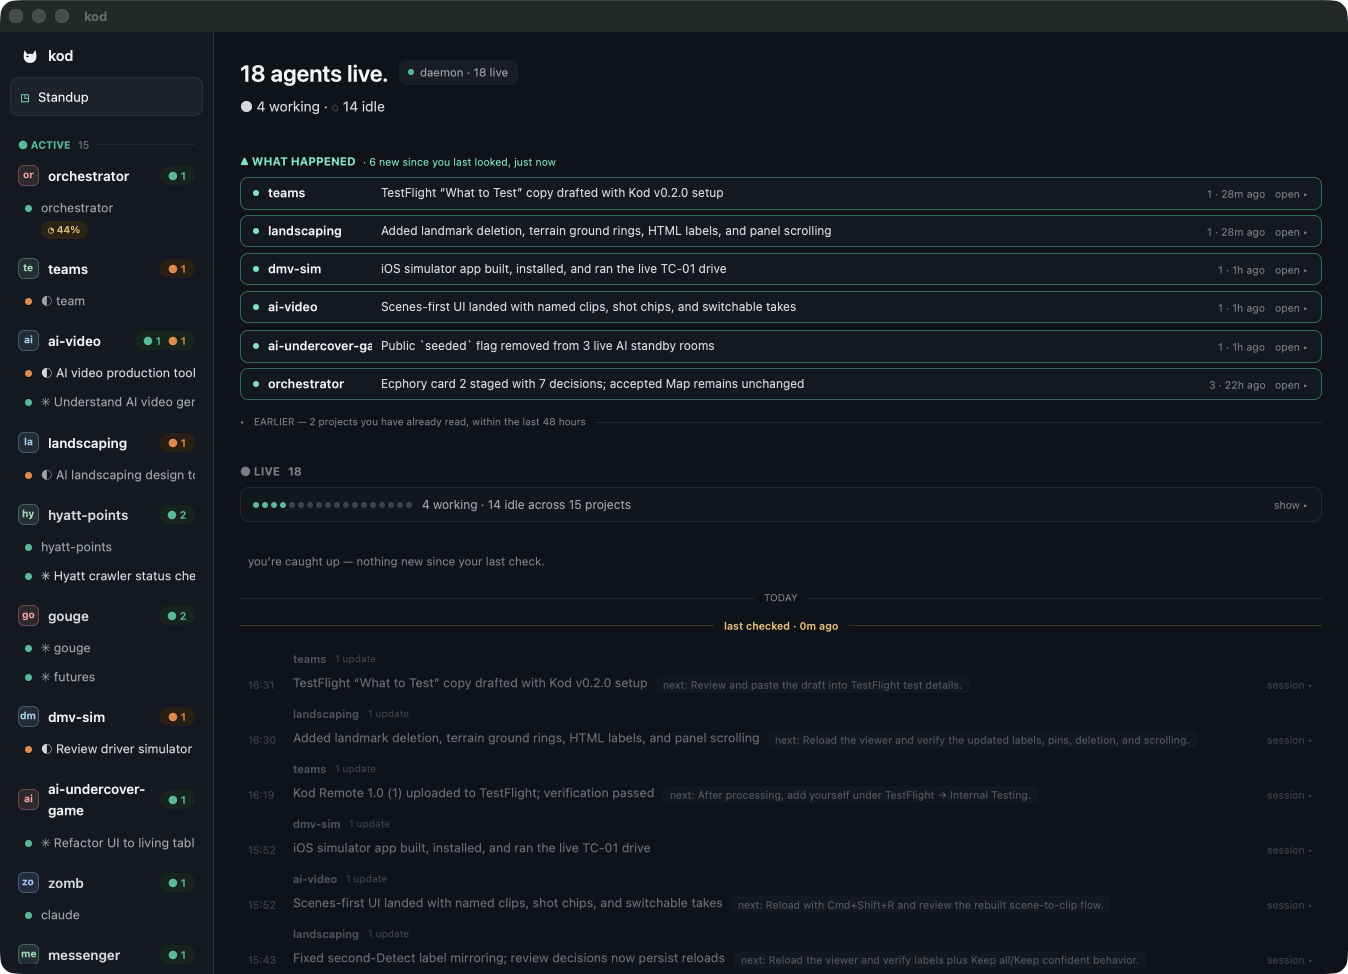
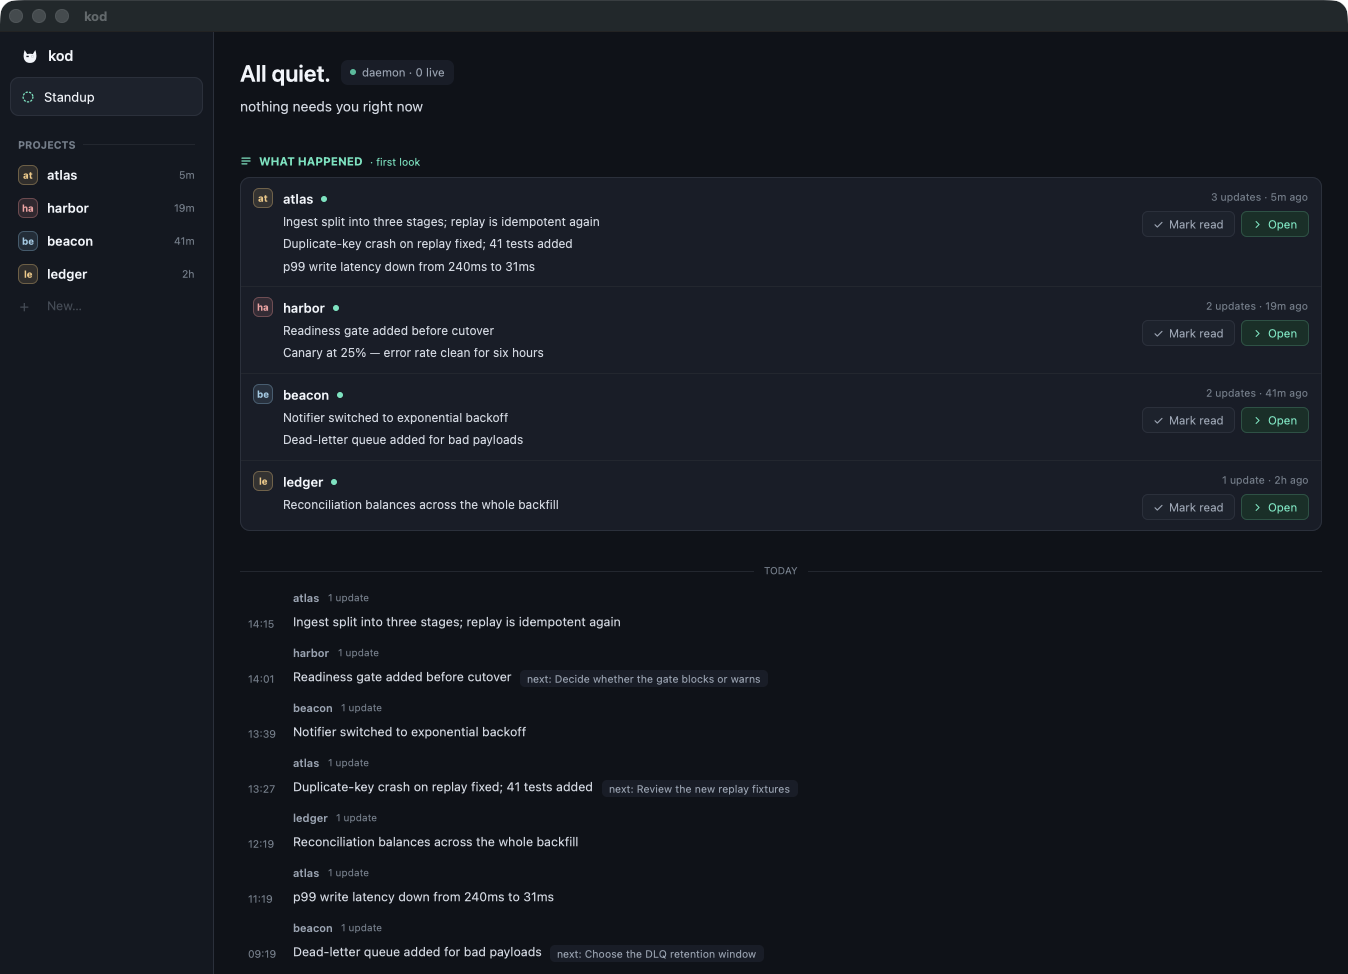
Re-shoot the Standup screenshot for the redesigned screen
The site was still showing the pre-0.4 Standup: outlined cards, the ASCII
"▲ WHAT HAPPENED" and "▸ EARLIER" headers, and "open ▸" as a text link. None
of that exists any more.

Captured from the signed 0.4.1 bundle against a seeded throwaway HOME, per
site/README.md, and written to BOTH app/assets/screenshots/ and site/assets/.

TWO THINGS THE RECIPE IN THAT README DOES NOT SAY, both found the hard way:

  * `seed-demo-home.py` writes transcripts but no `session_summary` rows, so
    a freshly seeded HOME renders an EMPTY Standup — which is the one screen
    the seeded data exists to photograph. The demo summaries were inserted
    into the store after a first launch created it, keyed to the seeder's own
    four projects and staggered like its transcripts.
  * `ORCH_DEMO` force-disables session summaries (boot.rs), so any shot taken
    with it carries a "Session summaries are off" line that is an artifact of
    the capture, not the product. The window is sized by writing `win_bounds`
    into the seeded store instead, and ORCH_DEMO is not used at all.

The alt text described the OLD picture — "18 agents live", six projects — and
would have been read aloud as a description of an image that no longer
existed. It now says what is actually on screen.

workspace.png is deliberately NOT re-shot: it shows a real agent mid-turn
with real output, which a seeded HOME cannot produce, and replacing it with
an empty shell would be a worse picture. Its rail chrome is mildly stale.
[…]

diff --git a/site/index.html b/site/index.html
@@ -234,7 +234,7 @@ footer{padding:44px 0 60px; border-top:1px solid var(--hair-soft); color:var(--m
     </p>
     <figure>
       <img src="assets/standup.png" width="1348" height="974"
-             alt="Kod's Standup screen, headed '18 agents live — 4 working, 14 idle'. A 'What happened' section lists six projects that moved since the last check, each with a one-line summary. Below it, a live strip and a timeline of the day's activity, every entry carrying the next action to take.">
+             alt="Kod's Standup screen, headed 'All quiet — nothing needs you right now'. A 'What happened' group lists four projects that moved since the last check — atlas, harbor, beacon, ledger — each row carrying its one-line summaries and buttons to mark it read or open it. Below, a timeline of the day, several entries carrying the next action to take.">
         <figcaption>Every project that moved while you were away, one line each — and what to do next about it.</figcaption>
     </figure>
     <p class="note" style="max-width:64ch">
